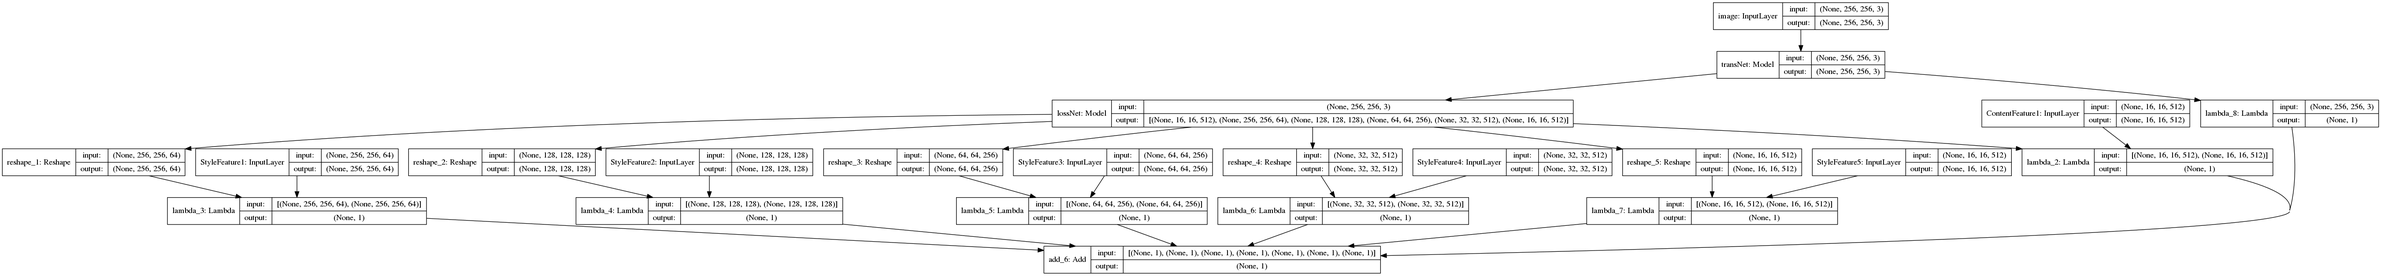
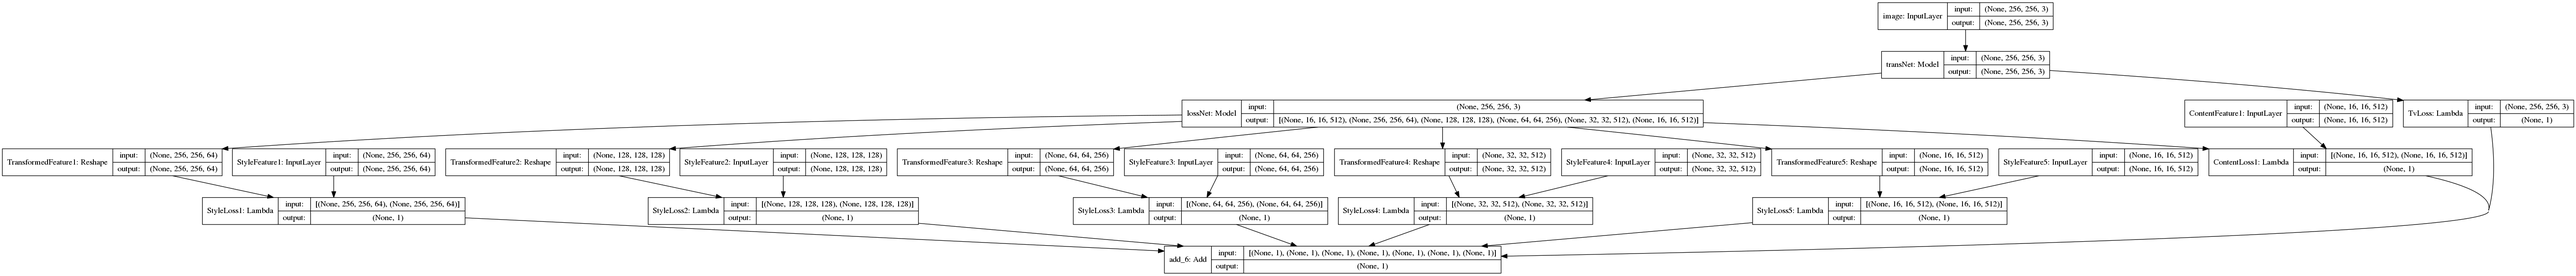
fix no griandent error

diff --git a/model.py b/model.py
@@ -66,7 +66,6 @@ def transform_net():
     else:
         input_tensor = Input(shape=(img_nrows, img_ncols, 3))
 
-
     conv1 = down_sampling(input_tensor, 32, 9, 1)
     conv2 = down_sampling(conv1, 64, 3, 2)
     conv3 = down_sampling(conv2, 128, 3, 2)
@@ -144,18 +143,18 @@ def overall_net():
 
     c_losses = []
     for i in range(len(content_feature_layers)):
-        c_loss = Lambda(content_loss)([content_features[i], transformed_features[i]])
+        c_loss = Lambda(content_loss, name="ContentLoss%d" % (i+1))([content_features[i], transformed_features[i]])
         c_losses.append(c_loss)
 
     s_losses = []
     for i in range(len(style_feature_layers)):
         # fix the shape
         trans_feature = transformed_features[i + len(content_feature_layers)]
-        trans_feature = Reshape(target_shape=style_feature_shape[i][1:])(trans_feature)
-        s_loss = Lambda(style_loss)([style_features[i], trans_feature])
+        trans_feature = Reshape(target_shape=style_feature_shape[i][1:], name="TransformedFeature%d" % (i+1))(trans_feature)
+        s_loss = Lambda(style_loss, name="StyleLoss%d" % (i+1))([style_features[i], trans_feature])
         s_losses.append(s_loss)
 
-    tv_loss = Lambda(total_variation_loss)(transformed_image)
+    tv_loss = Lambda(total_variation_loss, name="TvLoss")(transformed_image)
 
     losses = c_losses + s_losses + [tv_loss]
 

diff --git a/loss.py b/loss.py
@@ -71,34 +71,3 @@ def total_variation_loss(x):
     loss = K.reshape(loss, shape=(-1, 1))
     # print(loss.shape)
     return loss
-
-# def content_loss_func(y_pred, y_true):
-#     base = y_pred[0, :, :, :]
-#     transformed = y_pred[2, :, :, :]
-#     return content_weight * content_loss(base, transformed)
-#
-#
-# def style_loss_func(y_pred, y_true):
-#     style = y_pred[1, :, :, :]
-#     transformed = y_pred[2, :, :, :]
-#     return style_weight * style_loss(style, transformed)
-#
-#
-# def tv_loss_func(y_pred, y_true):
-#     return tv_weight * total_variation_loss(y_pred)
-
-
-# def loss_function(y_pred, y_true):
-#     loss = K.variable(0.0)
-#     # content loss
-#     for i in range(len(content_feature_layers)):
-#         base = y_pred[i][0, :, :, :]
-#         transformed = y_pred[i][2, :, :, :]
-#         loss.assign_add(content_weight * content_loss(base, transformed))
-#     # style loss
-#     for i in range(len(style_feature_layers)):
-#         style = y_pred[i + len(content_feature_layers)][1, :, :, :]
-#         transformed = y_pred[i + len(content_feature_layers)][2, :, :, :]
-#         loss.assign_add(style_weight * style_loss(style, transformed))
-#     # total variation loss
-#     loss.assign_add(tv_weight * total_variation_loss(y_pred[-1]))

diff --git a/main.py b/main.py
@@ -116,7 +116,7 @@ if __name__ == "__main__":
 
     overall_model.summary()
     opt = Adam()
-    overall_model.compile(optimizer=opt, loss=lambda y_pred, y_true: y_pred)
+    overall_model.compile(optimizer=opt, loss=lambda y_true, y_pred: y_pred)
     predict_callback = LambdaCallback(on_epoch_end=transform_test_image)
 
     model_path = os.path.join(model_dirpath, style_name) + ".hdf5"
